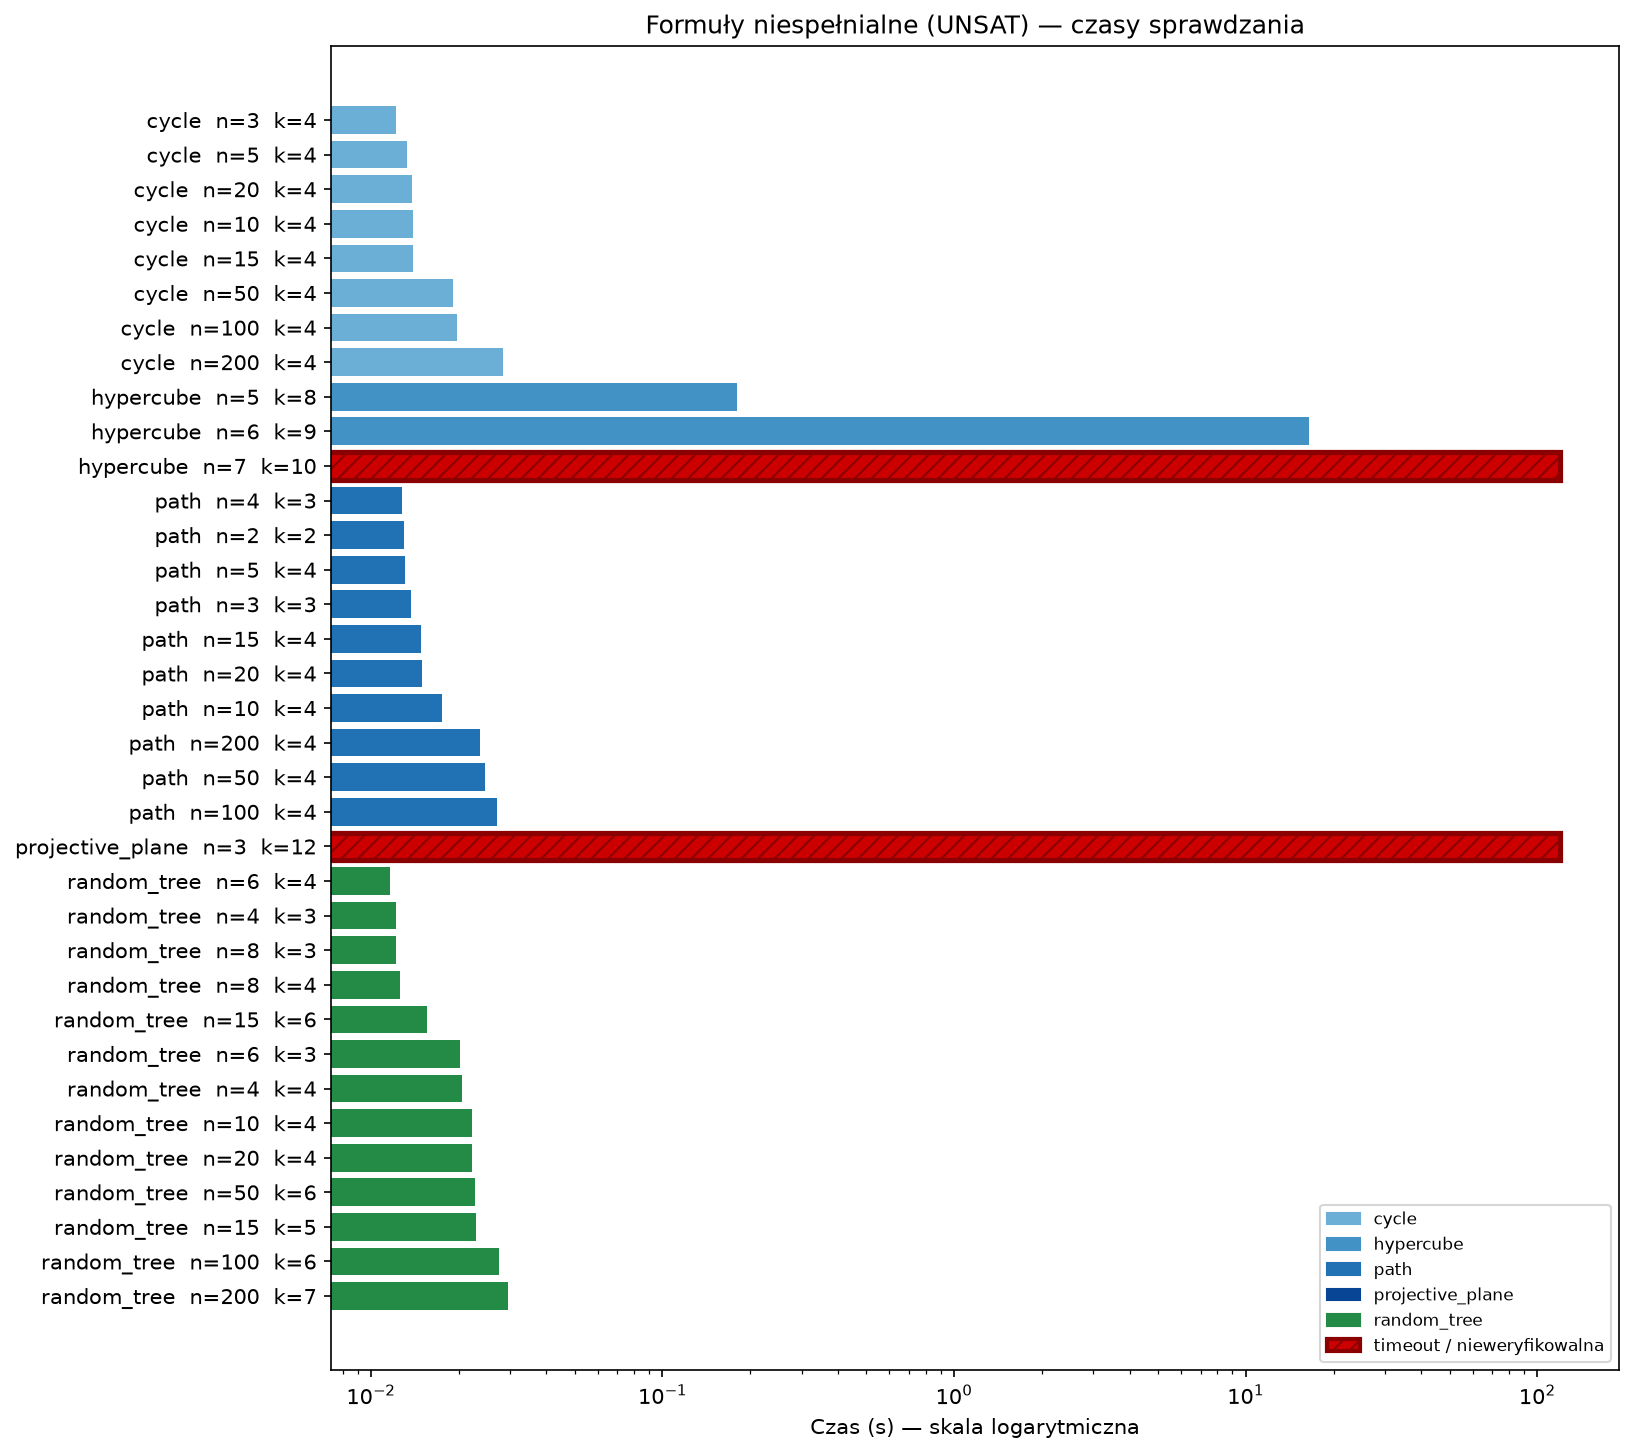
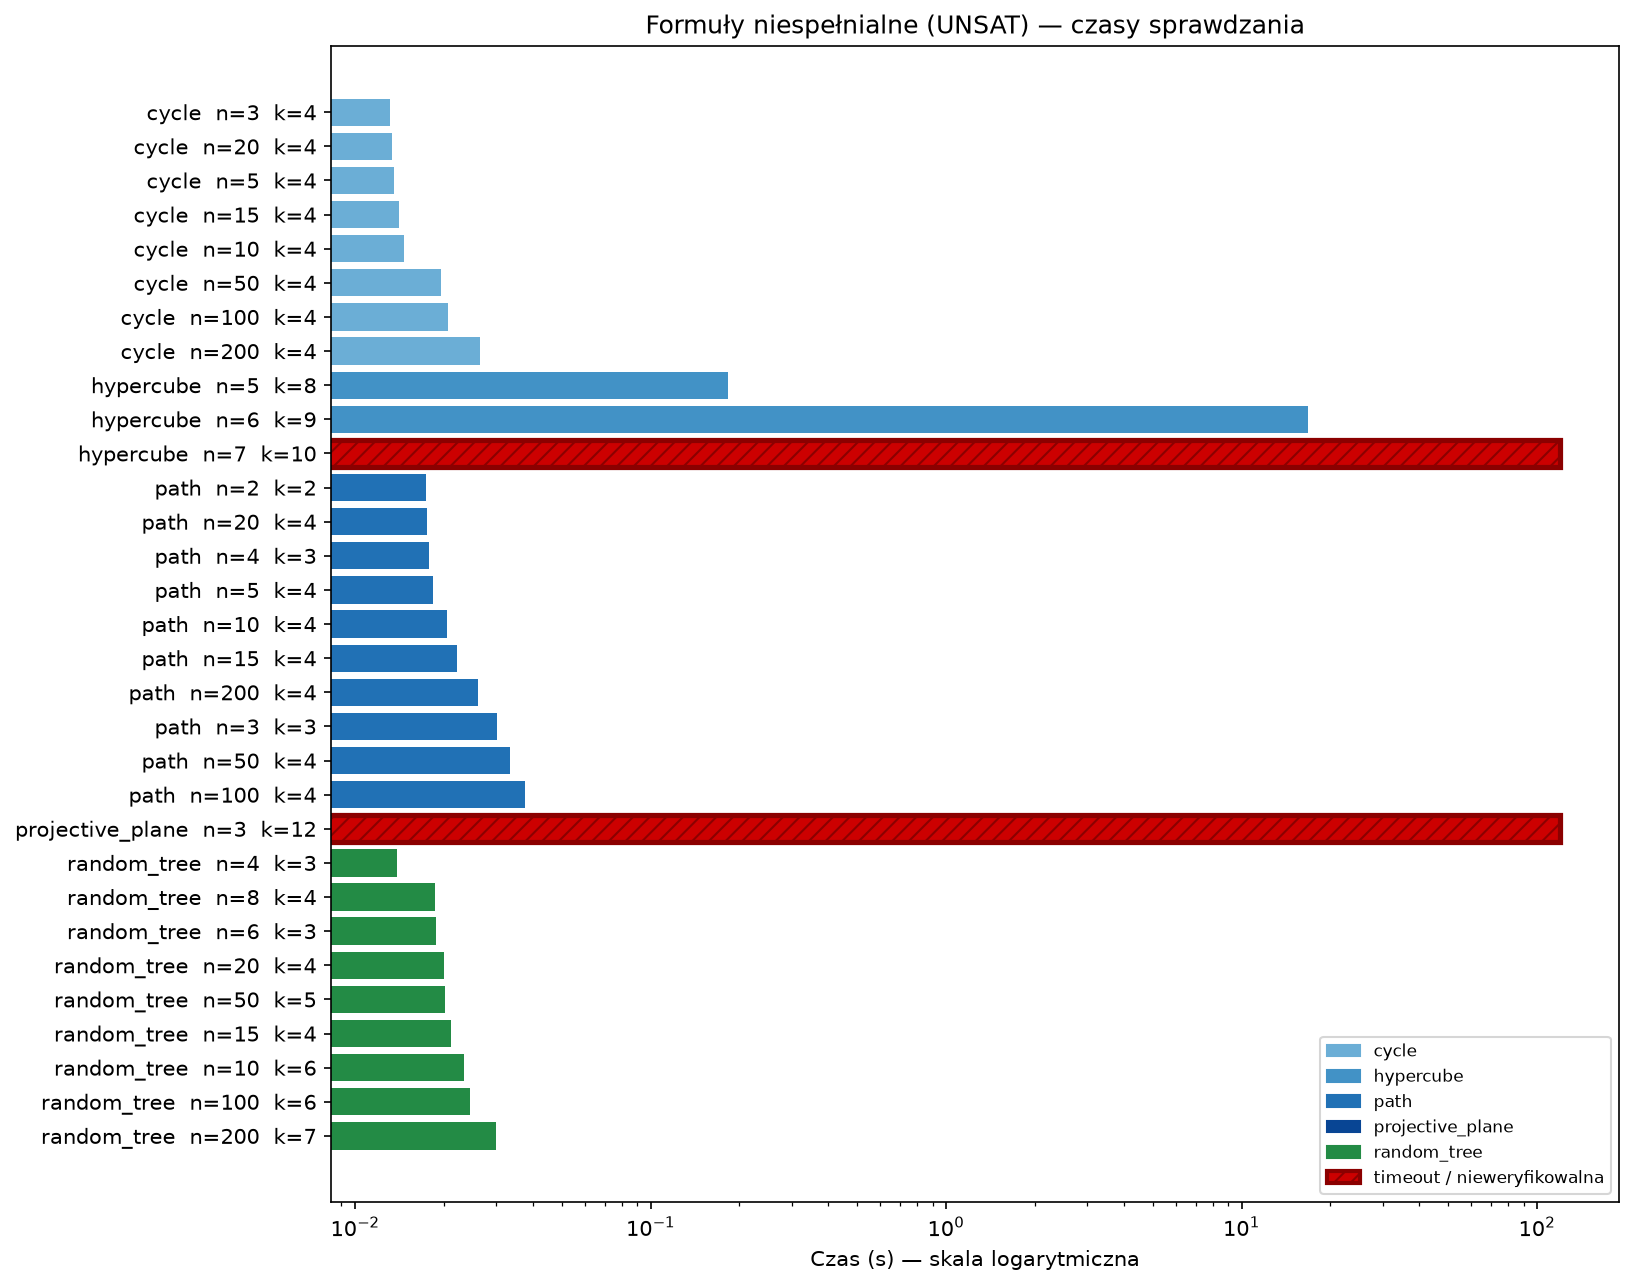
minor fixes

Changed region(s): [[0.0, 0.0622, 0.9676, 0.902], [0.1873, 0.8087, 0.9988, 0.9953], [0.4058, 0.0, 0.8115, 0.0311]]

diff --git a/experiments/cases_from_literature/plot_sat_times.py b/experiments/cases_from_literature/plot_sat_times.py
@@ -26,6 +26,10 @@ def enrich(df):
 def make_label(name):
     parts = name.rsplit("_", 2)
     if len(parts) == 3:
+        if 'regular' in parts[0]:
+            parts = name.rsplit("_", 3)
+            cls, size, deg, k = parts
+            return f"{cls}  n={size}  d={deg}  k={k}"
         cls, size, k = parts
         return f"{cls}  n={size}  k={k}"
     return name
@@ -87,7 +91,7 @@ drat = drat.merge(
     unsat[["name", "time"]].rename(columns={"time": "time_sat"}),
     on="name", how="left"
 )
-drat = drat[~drat["unverified"]].sort_values(["class", "time_drat"]).reset_index(drop=True)
+drat = drat[~drat["unverified"]].sort_values(["class", "time_sat"]).reset_index(drop=True)
 
 # ── wykres drat-trim: grouped bar ─────────────────────────────────────────────
 fig, ax = plt.subplots(figsize=(12, max(8, len(drat) * 0.5)))

diff --git a/src/variable_dictionary.py b/src/variable_dictionary.py
@@ -30,7 +30,3 @@ class variable_dictionary:
         Args:
             node (int): The node for which to get the variable numbers.'''
         return [self.dict[(node, color)] for color in range(self.k)]
-    
-
-
-

diff --git a/experiments/cases_from_literature/verify_proofs.py b/experiments/cases_from_literature/verify_proofs.py
@@ -55,7 +55,7 @@ def verify_proof(cnf_file, proof_file, timeout=120):
 
 def main():
     with open("experiments/cases_from_literature/proof_verification_results.csv", "w") as f:
-        f.write("File, Is satisfied, Proof Verified, Time taken (seconds), Did time out\n")
+        f.write("File, Proof Verified, Time taken (seconds), Did time out\n")
         f.close()
     
     for cnf_file in os.listdir(PATH_TO_UNSAT_FILES):